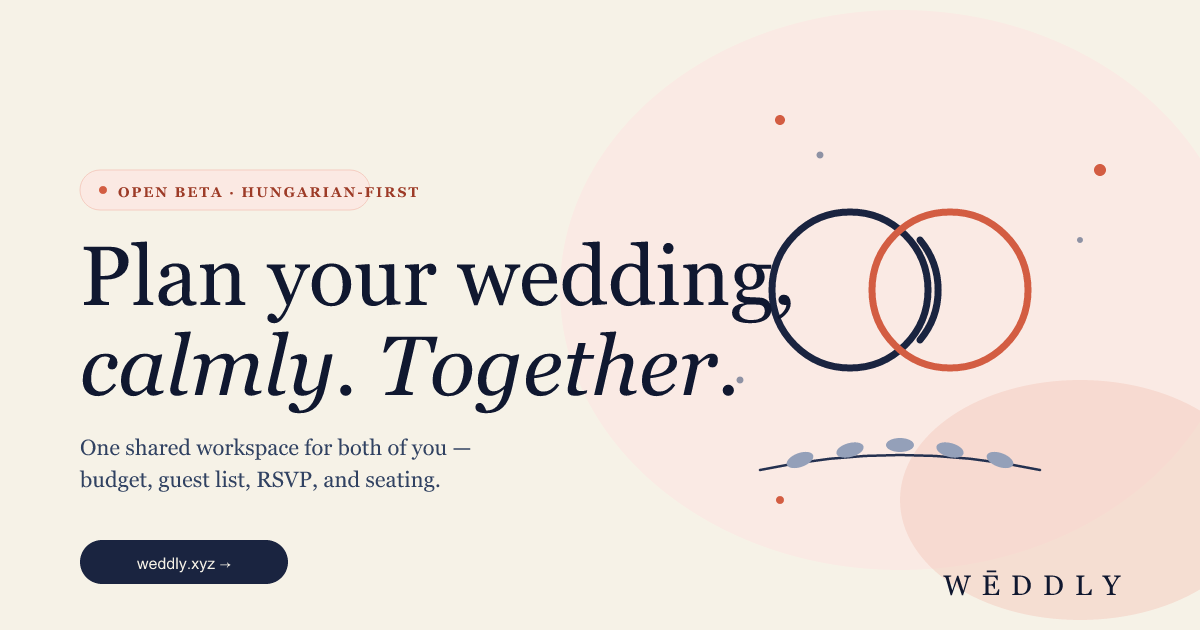
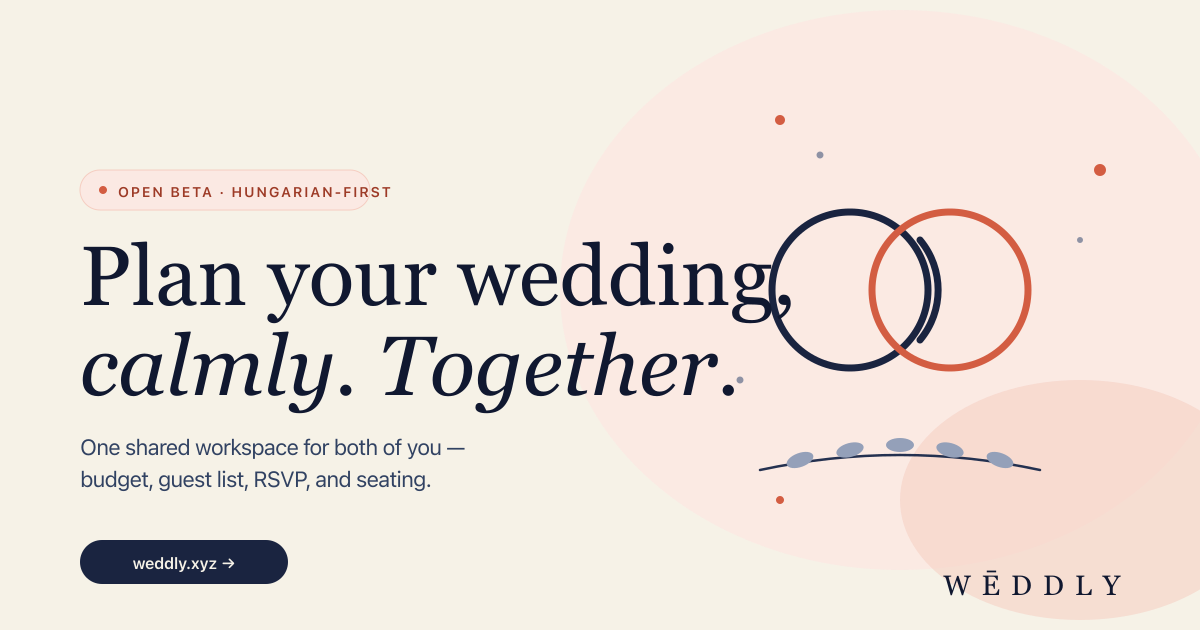
brand: in-app wordmark links to landing; refresh og.png for caps treatment
The AppShell wordmark previously pointed to /app, so clicking it from
inside the app kept users on the dashboard with no obvious way back to
the public landing. Point it to / instead — landing has no auth-redirect
guard, so logged-in users see it normally.

Also re-render og.png from the updated og.svg so the share card matches
the new wide-tracked WĒDDLY caps treatment instead of the old serif
"Weddly" wordmark.

Changed region(s): [[0.0617, 0.6937, 0.4008, 0.7841], [0.0925, 0.2714, 0.3392, 0.3317], [0.0925, 0.8746, 0.185, 0.9048]]

diff --git a/frontend/src/components/AppShell.tsx b/frontend/src/components/AppShell.tsx
@@ -58,7 +58,7 @@ export function AppShell({ children }: { children: ReactNode }) {
     <div className="min-h-full">
       <header className="sticky top-0 z-20 border-b border-paper-300 bg-paper-50/85 backdrop-blur">
         <div className="mx-auto flex max-w-7xl items-center justify-between px-4 py-3">
-          <Link to="/app" className="text-ink-900 transition-colors hover:text-ink-700">
+          <Link to="/" className="text-ink-900 transition-colors hover:text-ink-700">
             <Wordmark size="sm" />
           </Link>
           <div className="flex items-center gap-2">
